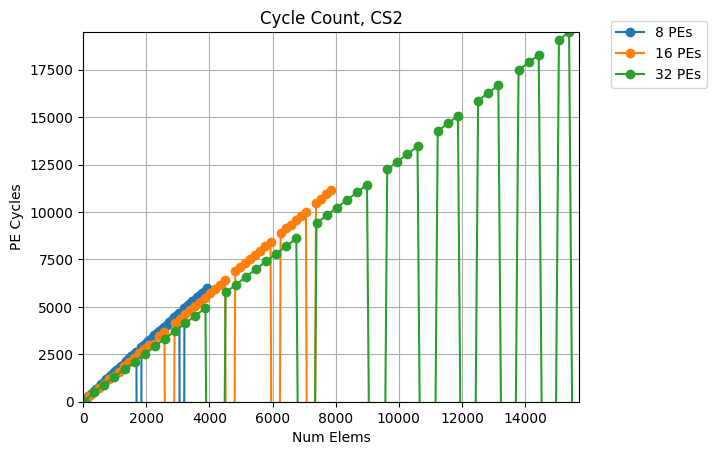
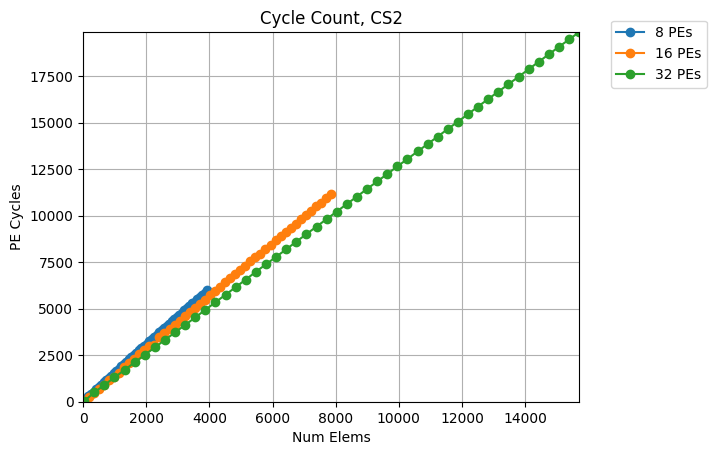
update plotting scripts and pngs

diff --git a/synchronous-slide/results/plot.py b/synchronous-slide/results/plot.py
@@ -44,16 +44,21 @@ num_elem_list = list(dict.fromkeys(df['elems_per_pe'].to_list()))
 
 # Plot bandwidth
 for kernel_width in kernel_width_list:
-  elems_per_pe = df.loc[df['kernel_width'] == kernel_width, 'elems_per_pe']
-  left_cycles = df.loc[df['kernel_width'] == kernel_width, 'left_cycles']
-  middle_cycles = df.loc[df['kernel_width'] == kernel_width, 'middle_cycles']
-  right_cycles = df.loc[df['kernel_width'] == kernel_width, 'right_cycles']
+  # !!! HARDCODING TO PLOT JUST THE POWERS OF TWO
+  if kernel_width in [8, 16, 32]:
+     elems_per_pe = df.loc[df['kernel_width'] == kernel_width, 'elems_per_pe']
+     left_cycles = df.loc[df['kernel_width'] == kernel_width, 'left_cycles']
+     middle_cycles = df.loc[df['kernel_width'] == kernel_width, 'middle_cycles']
+     right_cycles = df.loc[df['kernel_width'] == kernel_width, 'right_cycles']
 
-  label_root = str(kernel_width) + ' PEs, '
-  plt.plot(elems_per_pe*kernel_width, left_cycles, '-o', label=label_root + 'left')
-  plt.plot(elems_per_pe*kernel_width, middle_cycles, '-o', label=label_root + 'middle')
-  plt.plot(elems_per_pe*kernel_width, right_cycles, '-o', label=label_root + 'right')
-  plt.plot(elems_per_pe*kernel_width, right_cycles, '-o', label=label_root + 'right')
+     label_root = str(kernel_width) + ' PEs, '
+
+     # !!! COMMENTING OUT OTHERS AND ONLY PLOTTING RIGHT SINCE IT'S THE WORST
+     plt.plot(elems_per_pe*kernel_width, right_cycles, '-o', label=str(kernel_width) + ' PEs')
+
+     #plt.plot(elems_per_pe*kernel_width, left_cycles, '-o', label=label_root + 'left')
+     #plt.plot(elems_per_pe*kernel_width, middle_cycles, '-o', label=label_root + 'middle')
+     #plt.plot(elems_per_pe*kernel_width, right_cycles, '-o', label=label_root + 'right')
 
 plt.legend(bbox_to_anchor=(1.05, 1.05))
 plt.grid()
@@ -71,11 +76,20 @@ else:
 
 # Plot cycles per element
 plt.clf()
-plt.plot(elems_per_pe*kernel_width, right_cycles / (elems_per_pe*kernel_width), '-o')
+for kernel_width in kernel_width_list:
+  # !!! HARDCODING TO PLOT JUST THE POWERS OF TWO
+  if kernel_width in [8, 16, 32]:
+    elems_per_pe = df.loc[df['kernel_width'] == kernel_width, 'elems_per_pe']
+    right_cycles = df.loc[df['kernel_width'] == kernel_width, 'right_cycles']
+
+    label_root = str(kernel_width) + ' PEs'
+    plt.plot(elems_per_pe*kernel_width, right_cycles / (elems_per_pe*kernel_width), '-o', label=label_root)
+
+plt.legend(bbox_to_anchor=(1.05, 1.05))
 plt.grid()
 plt.xlabel('Num Elems')
 plt.ylabel('Cycles per element')
-plt.yticks([1, 1.5, 2, 2.5, 3, 3.5, 4])
+plt.yticks([0, 0.5, 1, 1.5, 2, 2.5, 3, 3.5, 4])
 
 if not cs2:
   plt.title("Worst Cycles per Element, Simulation")
